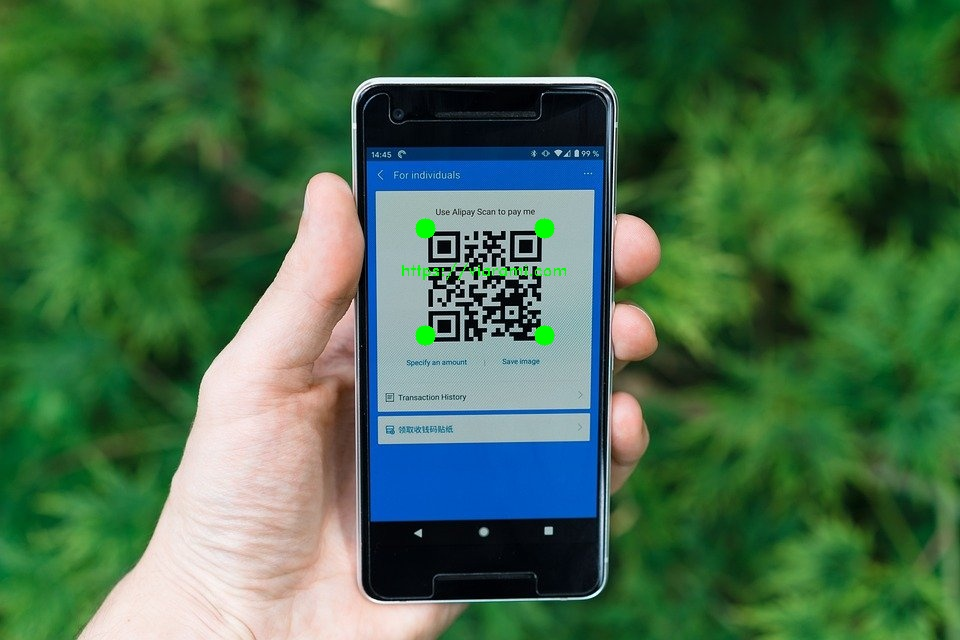
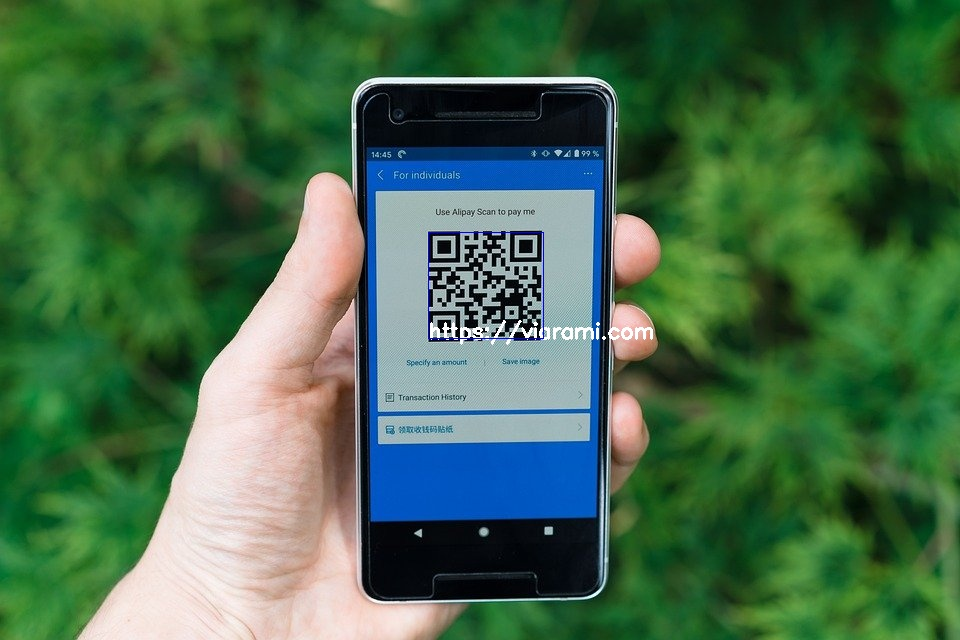
Fix

Changed region(s): [[0.4062, 0.3438, 0.6875, 0.5625]]

diff --git a/object_detection/qrcode_wechatqrcode/qrcode_wechatqrcode.py b/object_detection/qrcode_wechatqrcode/qrcode_wechatqrcode.py
@@ -1,8 +1,11 @@
+from base64 import decode
 from unicodedata import category
+from unittest import result
 import cv2 
 import sys
 import numpy as np
 import time
+import pyzbar.pyzbar as zbar
 
 import ailia
 
@@ -55,29 +58,25 @@ WIDTH = MODEL_PARAMS[MODEL_NAME]['input_shape'][1]
 STRIDE = MODEL_PARAMS[MODEL_NAME]['max_stride']
 ANCHORS = MODEL_PARAMS[MODEL_NAME]['anchors']
 
-def visualize(image, res, points, points_color=(0, 255, 0), text_color=(0, 255, 0), fps=None):
-    output = image.copy()
-    h, w, _ = output.shape
+def visualize(raw_img, detections):
+    result_img = raw_img.copy()
 
-    if fps is not None:
-        cv2.putText(output, 'FPS: {:.2f}'.format(fps), (0, 15), cv2.FONT_HERSHEY_SIMPLEX, 0.5, text_color)
+    for d in detections:
+        EXTRA_OFFSET = 10
+        left = max(d.x - EXTRA_OFFSET, 0)
+        top = max(d.y - EXTRA_OFFSET, 0)
+        right = min(d.x + d.w + EXTRA_OFFSET, raw_img.shape[1])
+        bottom = min(d.y + d.h + EXTRA_OFFSET, raw_img.shape[0])
+        cropped = raw_img[top:bottom, left:right, :]
 
-    fontScale = 0.5
-    fontSize = 1
-    for r, p in zip(res, points):
-        p = p.astype(np.int32)
-        for _p in p:
-            cv2.circle(output, _p, 10, points_color, -1)
+        decoded = zbar.decode(cropped)
+        if len(decoded) > 0:
+            text = decoded[0].data.decode()
+            cv2.putText(result_img, text, (d.x, d.y + d.h), cv2.FONT_HERSHEY_SIMPLEX, 0.7, (255, 255, 255), thickness=2)
 
-        qrcode_center_x = int((p[0][0] + p[2][0]) / 2)
-        qrcode_center_y = int((p[0][1] + p[2][1]) / 2)
+        cv2.rectangle(result_img, (d.x, d.y), (d.x + d.w, d.y + d.h), (255, 0, 0))
 
-        text_size, baseline = cv2.getTextSize(r, cv2.FONT_HERSHEY_DUPLEX, fontScale, fontSize)
-        text_x = qrcode_center_x - int(text_size[0] / 2)
-        text_y = qrcode_center_y - int(text_size[1] / 2)
-        cv2.putText(output, '{}'.format(r), (text_x, text_y), cv2.FONT_HERSHEY_DUPLEX, fontScale, text_color, fontSize)
-
-    return output
+    return result_img
 
 def recognize_from_image(net):
     # input image loop
@@ -106,17 +105,14 @@ def recognize_from_image(net):
         else:
             res = net.run(img[None, None, :, :])
 
-        detections = postprocess(img, res)
-        detections = reverse_letterbox(detections, raw_img.shape, img.shape)
+        detections = postprocess(img, raw_img.shape, res)
+        result_img = visualize(raw_img, detections)
 
-        for d in detections:
-            cv2.rectangle(raw_img, (int(d.x), int(d.y)), (int(d.x + d.w), int(d.y + d.h)), (255, 0, 0))
-
-        cv2.imshow("QR", raw_img)
+        cv2.imshow("QR", result_img)
         cv2.waitKey()
 
         savepath = get_savepath(args.savepath, image_path)
-        cv2.imwrite(savepath, raw_img)
+        cv2.imwrite(savepath, result_img)
         logger.info(f'saved at : {savepath}')
 
     logger.info('Script finished successfully.')
@@ -140,17 +136,14 @@ def recognize_from_video(net):
         frame = preprocess(raw_frame, (HEIGHT, WIDTH))
         
         res = net.run(frame[None, None, :, :])
-        detections = postprocess(frame, res)
-        detections = reverse_letterbox(detections, raw_frame.shape, frame.shape)
+        detections = postprocess(frame, raw_frame.shape, res)
+        result_frame = visualize(raw_frame, detections)
 
-        for d in detections:
-            cv2.rectangle(raw_frame, (int(d.x), int(d.y)), (int(d.x + d.w), int(d.y + d.h)), (255, 0, 0))
-
-        cv2.imshow('frame', raw_frame)
+        cv2.imshow('frame', result_frame)
 
         # save results
         if writer is not None:
-            writer.write(raw_frame)
+            writer.write(result_frame)
 
     capture.release()
     cv2.destroyAllWindows()

diff --git a/object_detection/qrcode_wechatqrcode/qrcode_wechatqrcode_utils.py b/object_detection/qrcode_wechatqrcode/qrcode_wechatqrcode_utils.py
@@ -39,16 +39,16 @@ def preprocess(img: cv2.Mat, det_shape: tuple) -> cv2.Mat:
     img = img / 255.0  # 0 - 255 to 0.0 - 1.0
     return img
 
-def postprocess(img: cv2.Mat, res: np.ndarray) -> List[ailia.DetectorObject]:
+def postprocess(img: cv2.Mat, raw_image_shape: tuple, res: np.ndarray) -> List[ailia.DetectorObject]:
     detections = []
     for out in res[0][0][0]:
         width = img.shape[1]
         height = img.shape[0]
 
-        left = int(out[3] * width)
-        top = int(out[4] * height)
-        right = int(out[5] * width)
-        bottom = int(out[6] * height)
+        left = out[3] * width
+        top = out[4] * height
+        right = out[5] * width
+        bottom = out[6] * height
         d = ailia.DetectorObject(
             category=out[1],
             prob=out[2],
@@ -59,7 +59,7 @@ def postprocess(img: cv2.Mat, res: np.ndarray) -> List[ailia.DetectorObject]:
         )
         detections.append(d)
 
-    return nms(detections, 0.4)
+    return reverse_letterbox(nms(detections, 0.2), raw_image_shape, img.shape)
 
 def reverse_letterbox(detections: List[ailia.DetectorObject], raw_img_shape: tuple, letter_img_shape: tuple) -> List[ailia.DetectorObject]:
     rh = raw_img_shape[0]
@@ -75,10 +75,10 @@ def reverse_letterbox(detections: List[ailia.DetectorObject], raw_img_shape: tup
         r = ailia.DetectorObject(
             category = d.category,
             prob = d.prob,
-            x = (d.x - pad[1]) / scale,
-            y = (d.y - pad[0]) / scale,
-            w = d.w / scale,
-            h = d.h / scale,
+            x = int((d.x - pad[1]) / scale),
+            y = int((d.y - pad[0]) / scale),
+            w = int(d.w / scale),
+            h = int(d.h / scale),
         )
         new_detections.append(r)
     return new_detections

diff --git a/object_detection/qrcode_wechatqrcode/README.md b/object_detection/qrcode_wechatqrcode/README.md
@@ -17,6 +17,12 @@ Ailia input shape: (1, 3, 896, 1280)
 Automatically downloads the onnx and prototxt files on the first run. It is necessary to be connected to the Internet
 while downloading.
 
+Setup environments.
+
+```
+$ pip3 install -r requirements.txt
+```
+
 For the sample image,
 
 ``` bash
